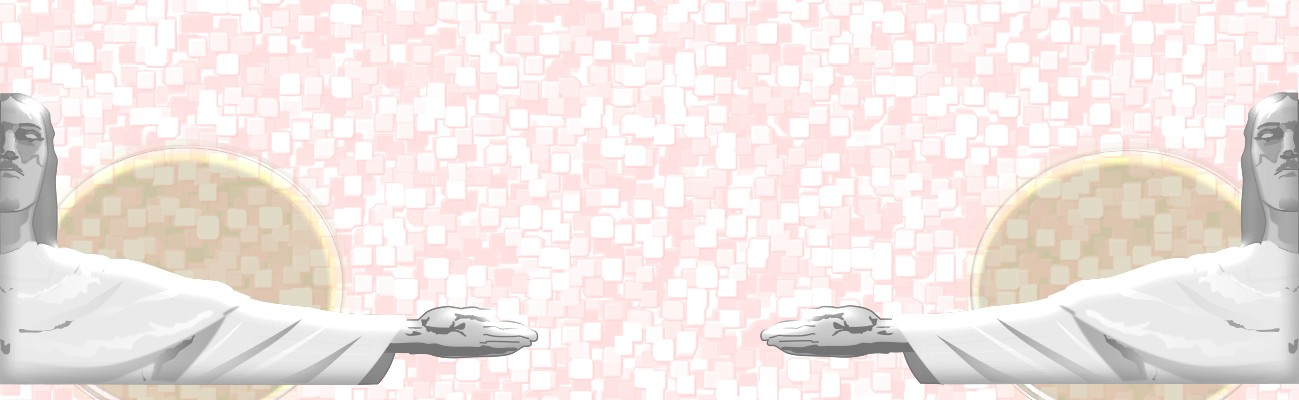
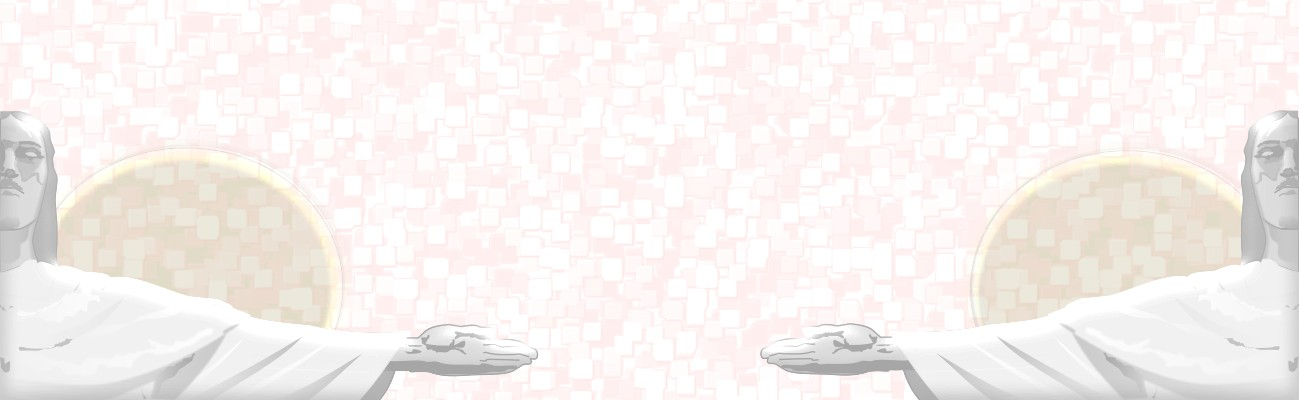
Adicionando uma classe custom para feature

diff --git a/_includes/site-feature.html b/_includes/site-feature.html
@@ -1,13 +1,15 @@
 {% assign feature_text = page.feature_text %}
 {% assign feature_image = page.feature_image %}
+{% assign custom_class = page.custom_class %}
 {% if page.collectionpage %}
   {% assign collectiondata = site.collections | where: "label", page.collectionpage | first %}
   {% assign feature_text = collectiondata.feature_text %}
   {% assign feature_image = collectiondata.feature_image %}
+  {% assign feature_image = collectiondata.feature_image %}
 {% endif %}
 
 {% if feature_text or feature_image %}
-  <div class="feature"{% if feature_image %} style="background-image: url({{ feature_image }})"{% endif %}>
+  <div class="feature {{ custom_class }}"{% if feature_image %} style="background-image: url({{ feature_image }})"{% endif %}>
     <div class="container  typeset">
       {{ feature_text | markdownify }}
     </div>

diff --git a/_sass/_theme.scss b/_sass/_theme.scss
@@ -49,12 +49,24 @@ body {
   text-align: center;
   background: $featureBackgroundColour;
   background-size: cover;
-  background-position: center;
+  background-position: top;
   .container {
     min-height: 40vh;
     max-width: 90%;
     @include flex-direction(column);
     @include justify-content(center);
+  }
+
+  @include breakpoint(break-3) {
+    background-position: center;
+  }
+}
+
+.image-position {
+  background-position: unset;
+
+  @include breakpoint(break-3) {
+    background-position: center;
   }
 }
 

diff --git a/index.md b/index.md
@@ -4,6 +4,7 @@ feature_text: |
   ## Seja muito bem vindo(a)
   Comunidade de Vida Cristã do Rio de Janeiro
 feature_image: "assets/images/cristo-redentor.jpg"
+custom_class: "image-position"
 excerpt: "Comunidade de Vida Cristã do Rio de Janeiro"
 ---
 
